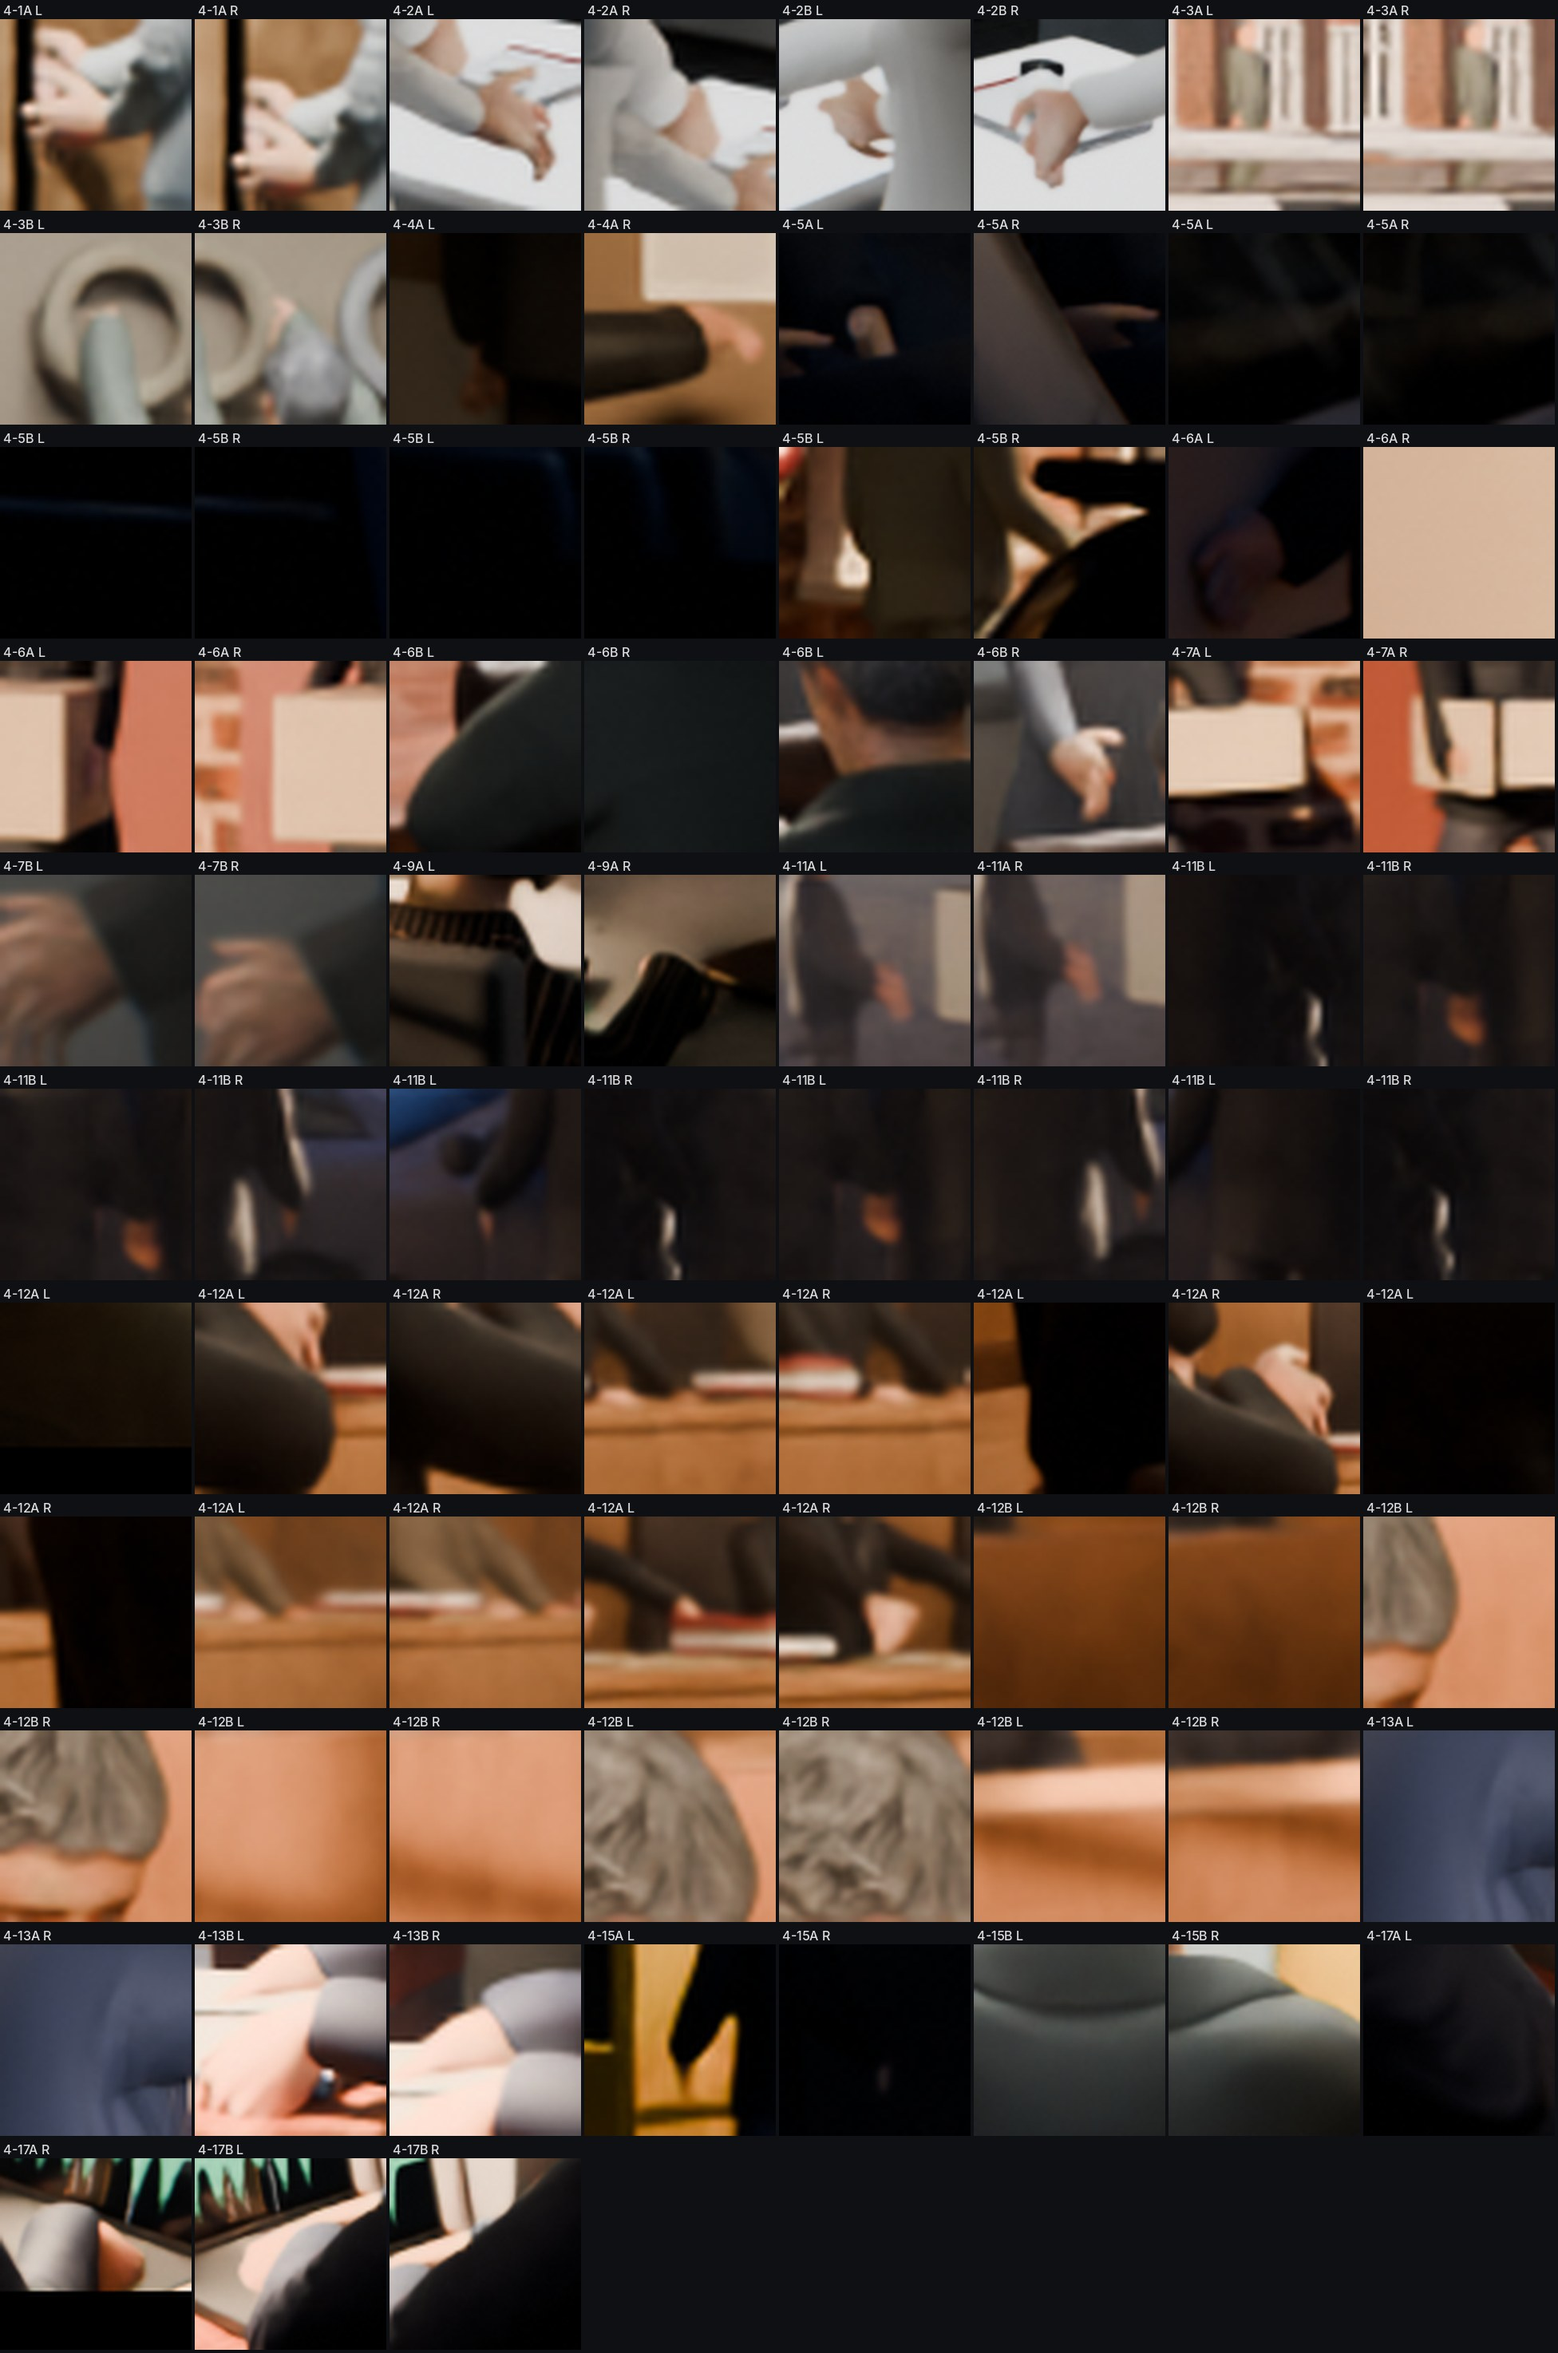
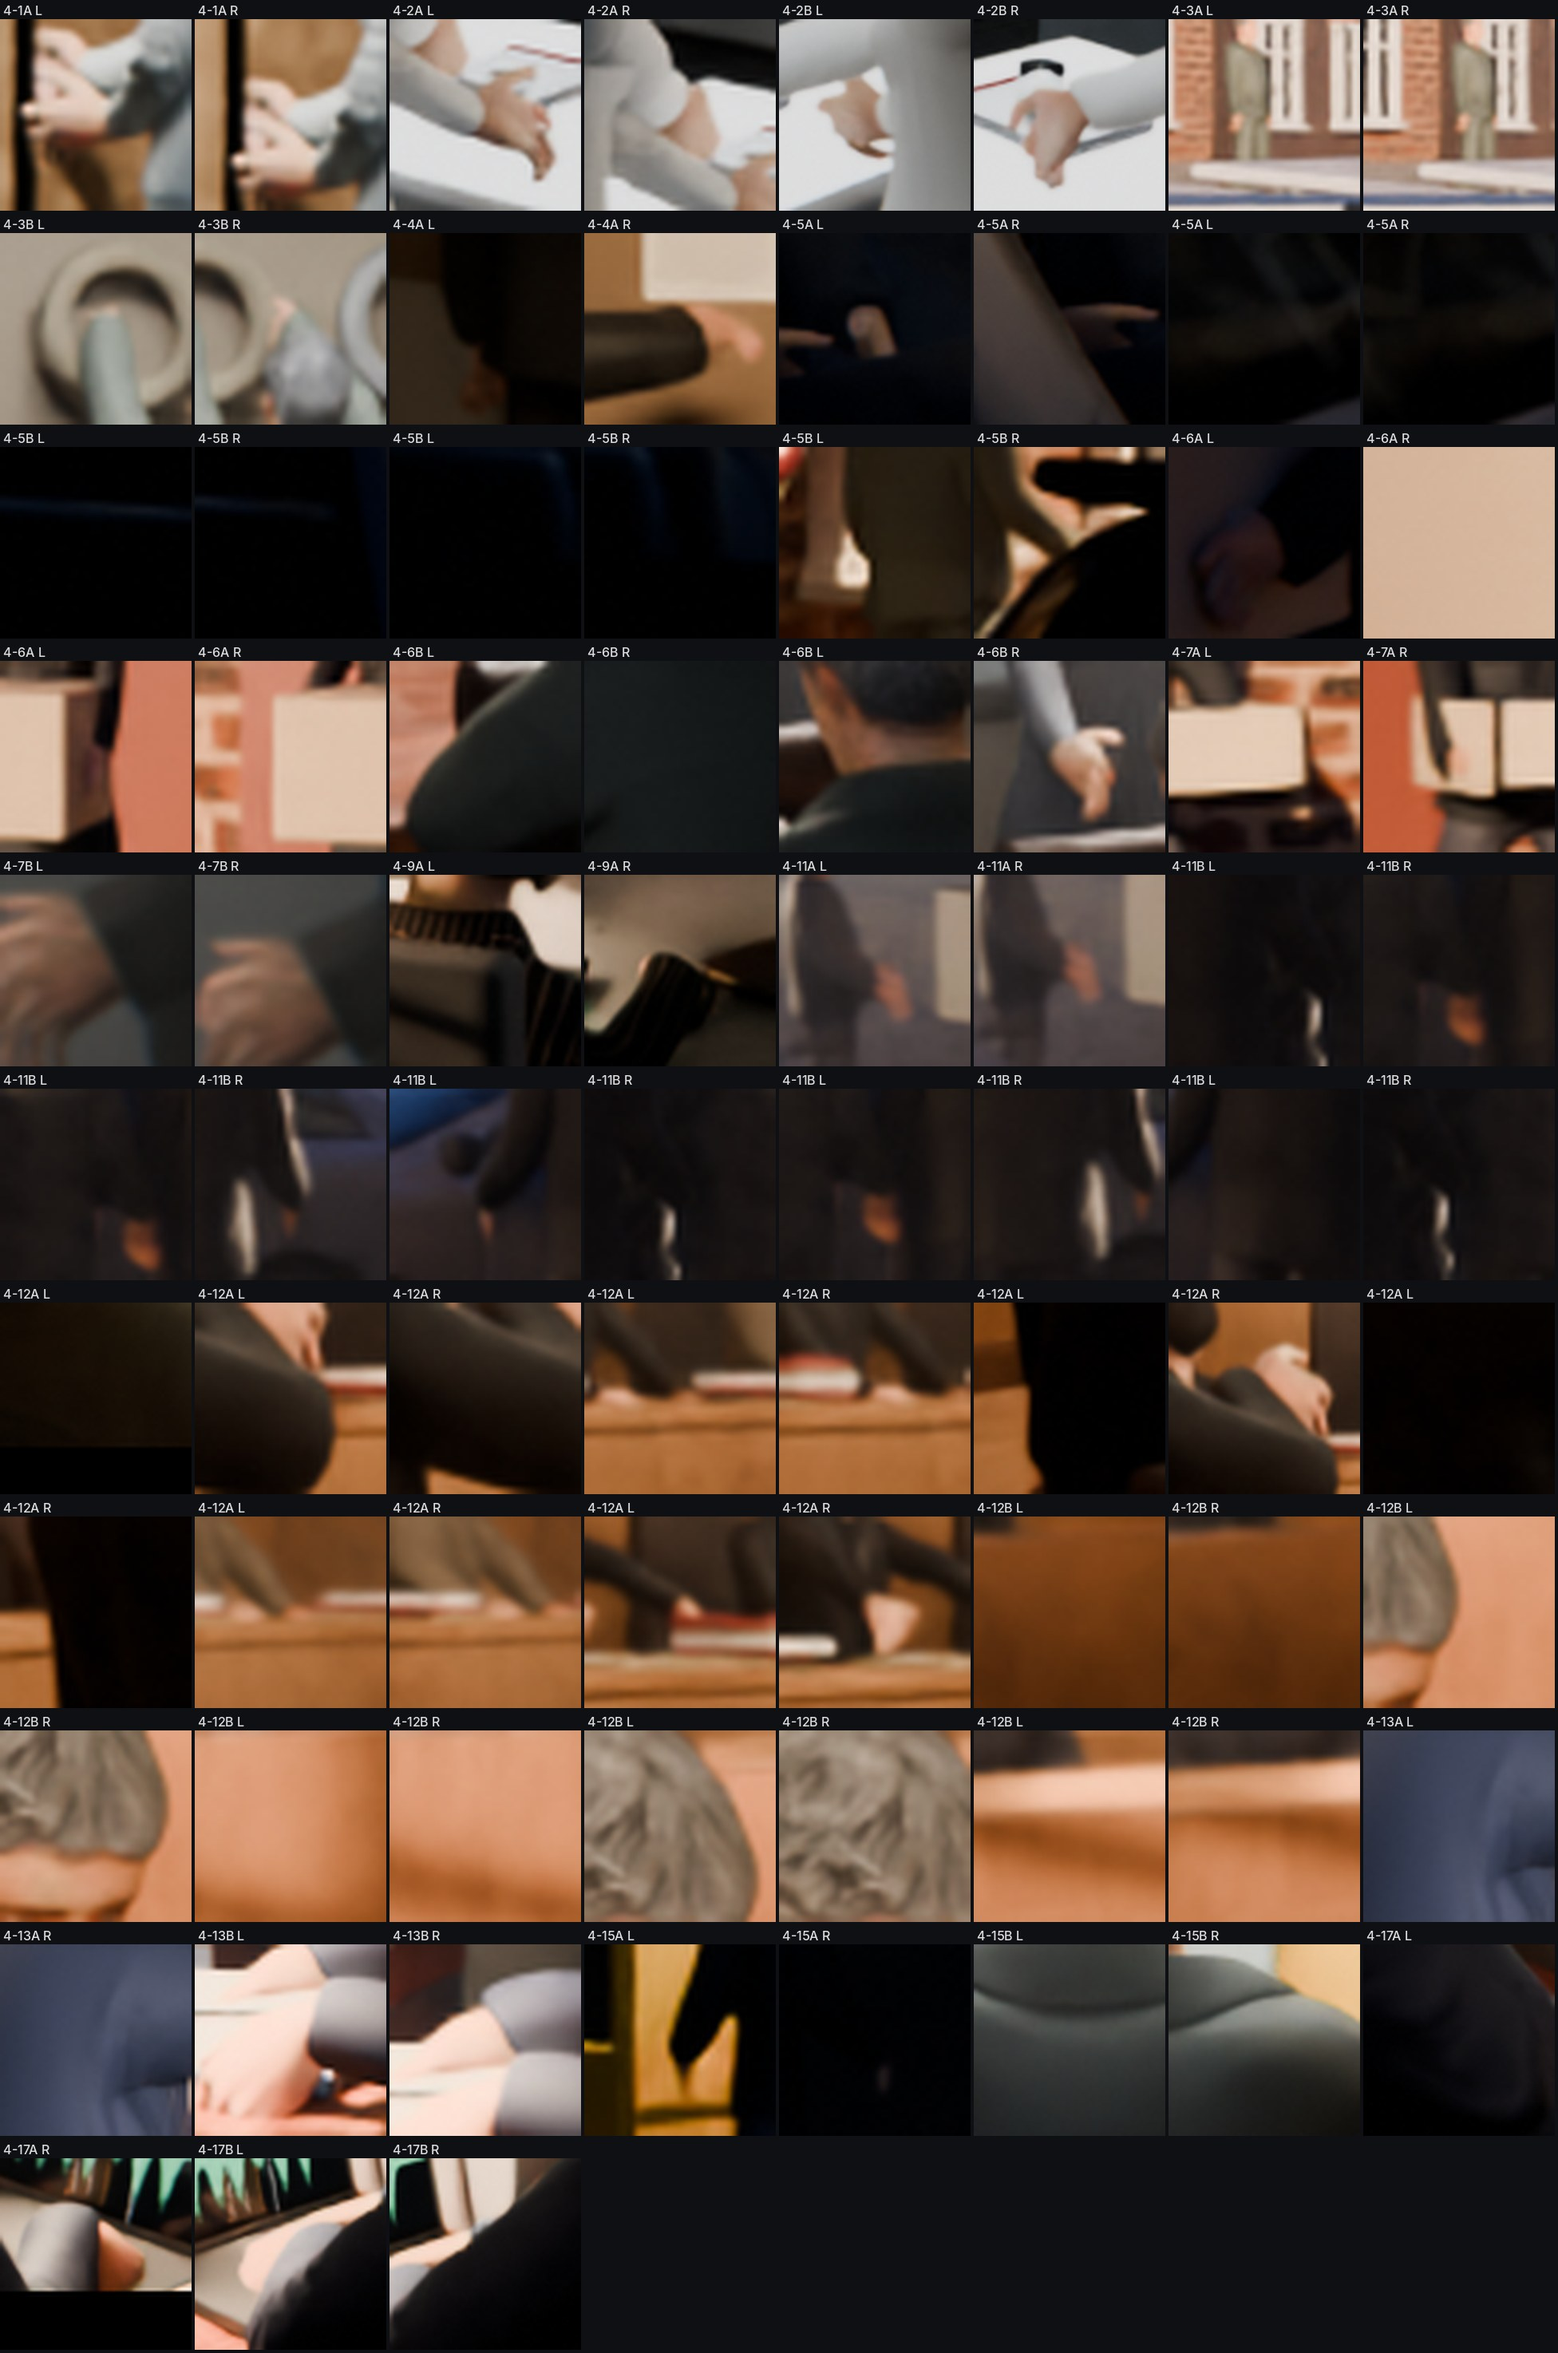
B: 4-3A boat wheelhouses (tapered, raked windscreen, sloped roof, framed windows, dark trim)
Claude-Session: https://claude.ai/code/session_01XfwPSmdQ4Yjh3CAg9vZd6z

Changed region(s): [[0.75, 0.0, 1.0, 0.0936]]

diff --git a/projects/radio-jingle/scenes/sc_b_north.py b/projects/radio-jingle/scenes/sc_b_north.py
@@ -120,11 +120,30 @@ def motorboat(name, loc, rz, col):
     sub = hull.modifiers.new("sub", 'SUBSURF'); sub.levels = 1; sub.render_levels = 2
     white = pbr("CabWhite", (0.82, 0.82, 0.8), 0.35); dark = pbr("CabGlass", (0.02, 0.03, 0.035), 0.04, **{'Coat Weight': 1.0})
     teak = pbr("Teak", (0.3, 0.18, 0.09), 0.6)
-    parts = [box(name + "Cab", (-0.6, 0, 0.62), (2.0, 1.6, 1.0), white, bevel=0.08),
-             box(name + "CabRoof", (-0.6, 0, 1.33), (2.3, 1.8, 0.08), white, bevel=0.03),
-             box(name + "WinF", (0.41, 0, 0.95), (0.02, 1.4, 0.38), dark),
-             box(name + "WinS1", (-0.6, 0.805, 0.95), (1.6, 0.02, 0.32), dark),
-             box(name + "WinS2", (-0.6, -0.805, 0.95), (1.6, 0.02, 0.32), dark),
+    # wheelhouse: tapered sides, a raked windscreen, a sloped roof with overhang, framed windows, a dark trim band
+    cab = box(name + "Cab", (-0.6, 0, 0.62), (2.0, 1.6, 1.0), white)
+    for v in cab.data.vertices:                           # local box: x +-1, y +-0.8 (scaled by size), z +-0.5
+        if v.co.z > 0:
+            v.co.y *= 0.86                                # tumblehome: the cabin narrows toward the roof
+            if v.co.x > 0:
+                v.co.x -= 0.32                          # raked windscreen (mesh is in metres)
+    bv = cab.modifiers.new("bv", 'BEVEL'); bv.width = 0.04; bv.segments = 2
+    trim = pbr("CabTrim", (0.05, 0.08, 0.16), 0.4, **{'Coat Weight': 0.5})
+    frame = pbr("WinFrame", (0.12, 0.12, 0.13), 0.35, 0.6)
+    roof = box(name + "CabRoof", (-0.72, 0, 1.15), (2.25, 1.62, 0.07), white, bevel=0.02)
+    roof.rotation_euler = (0, math.radians(-4), 0)           # sloped: the roof drops toward the stern
+    parts = [cab, roof,
+             box(name + "RoofEdge", (-0.72, 0, 1.11), (2.27, 1.64, 0.04), trim),
+             box(name + "TrimBand", (-0.6, 0, 0.2), (2.04, 1.64, 0.1), trim),
+             box(name + "WinF", (0.155, 0, 0.92), (0.02, 1.2, 0.34), dark, rot=(0, math.radians(-17.7), 0)),
+             box(name + "WinFMull", (0.165, 0, 0.92), (0.03, 0.04, 0.36), frame, rot=(0, math.radians(-17.7), 0)),
+             box(name + "WinS1", (-0.62, 0.72, 0.92), (1.5, 0.02, 0.3), dark),
+             box(name + "WinS2", (-0.62, -0.72, 0.92), (1.5, 0.02, 0.3), dark)]
+    for sy in (1, -1):                                       # side window frames: sill, head, two mullions
+        y_ = sy * 0.735
+        parts += [box(name + "WFs", (-0.62, y_, 0.765), (1.56, 0.03, 0.03), frame), box(name + "WFh", (-0.62, y_, 1.075), (1.56, 0.03, 0.03), frame)]
+        parts += [box(name + "WFm", (-0.62 + dx, y_, 0.92), (0.03, 0.03, 0.3), frame) for dx in (-0.5, 0.0, 0.5)]
+    parts += [
              box(name + "Rail1", (0.6, 0.98, 0.45), (3.4, 0.03, 0.03), pbr("RailSteel", (0.75, 0.75, 0.77), 0.2, 1.0)),
              box(name + "Rail2", (0.6, -0.98, 0.45), (3.4, 0.03, 0.03), pbr("RailSteel", (0.75, 0.75, 0.77), 0.2, 1.0))]
     mast = cyl(name + "Mast", (-0.9, 0, 2.6), 0.045, 2.6, pbr("MastAlu", (0.75, 0.75, 0.75), 0.25, 1.0), verts=12)
